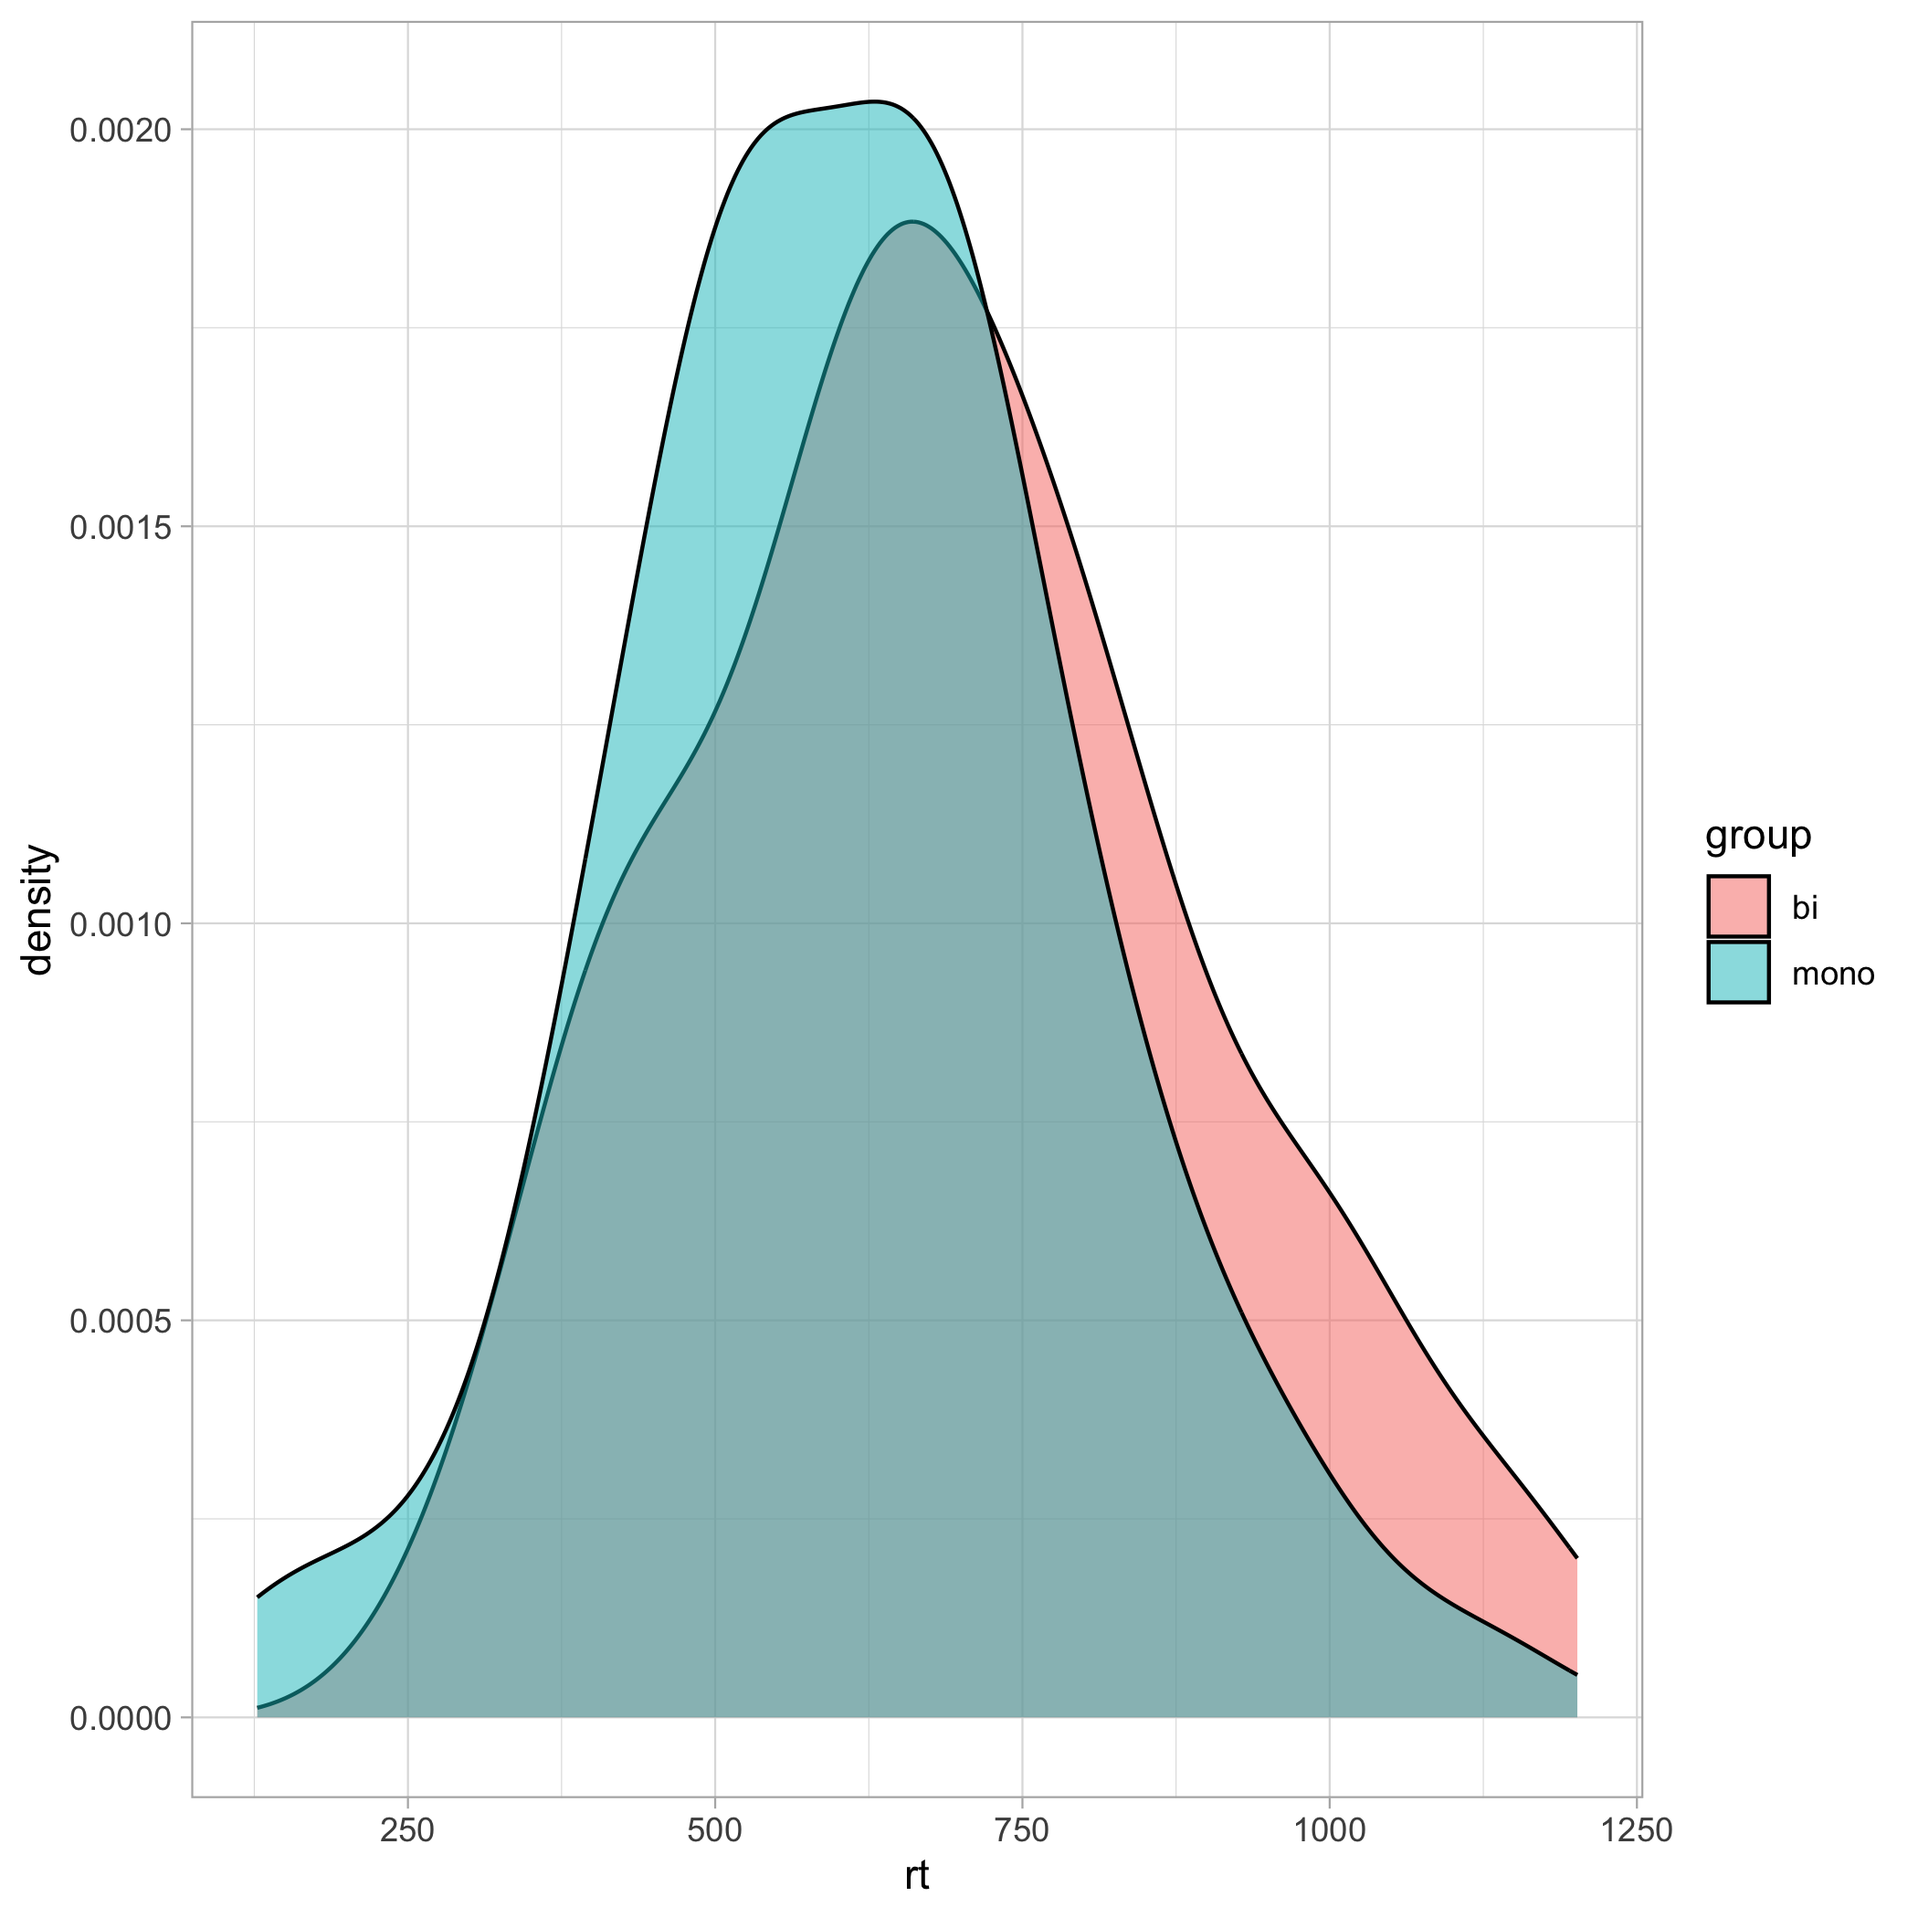
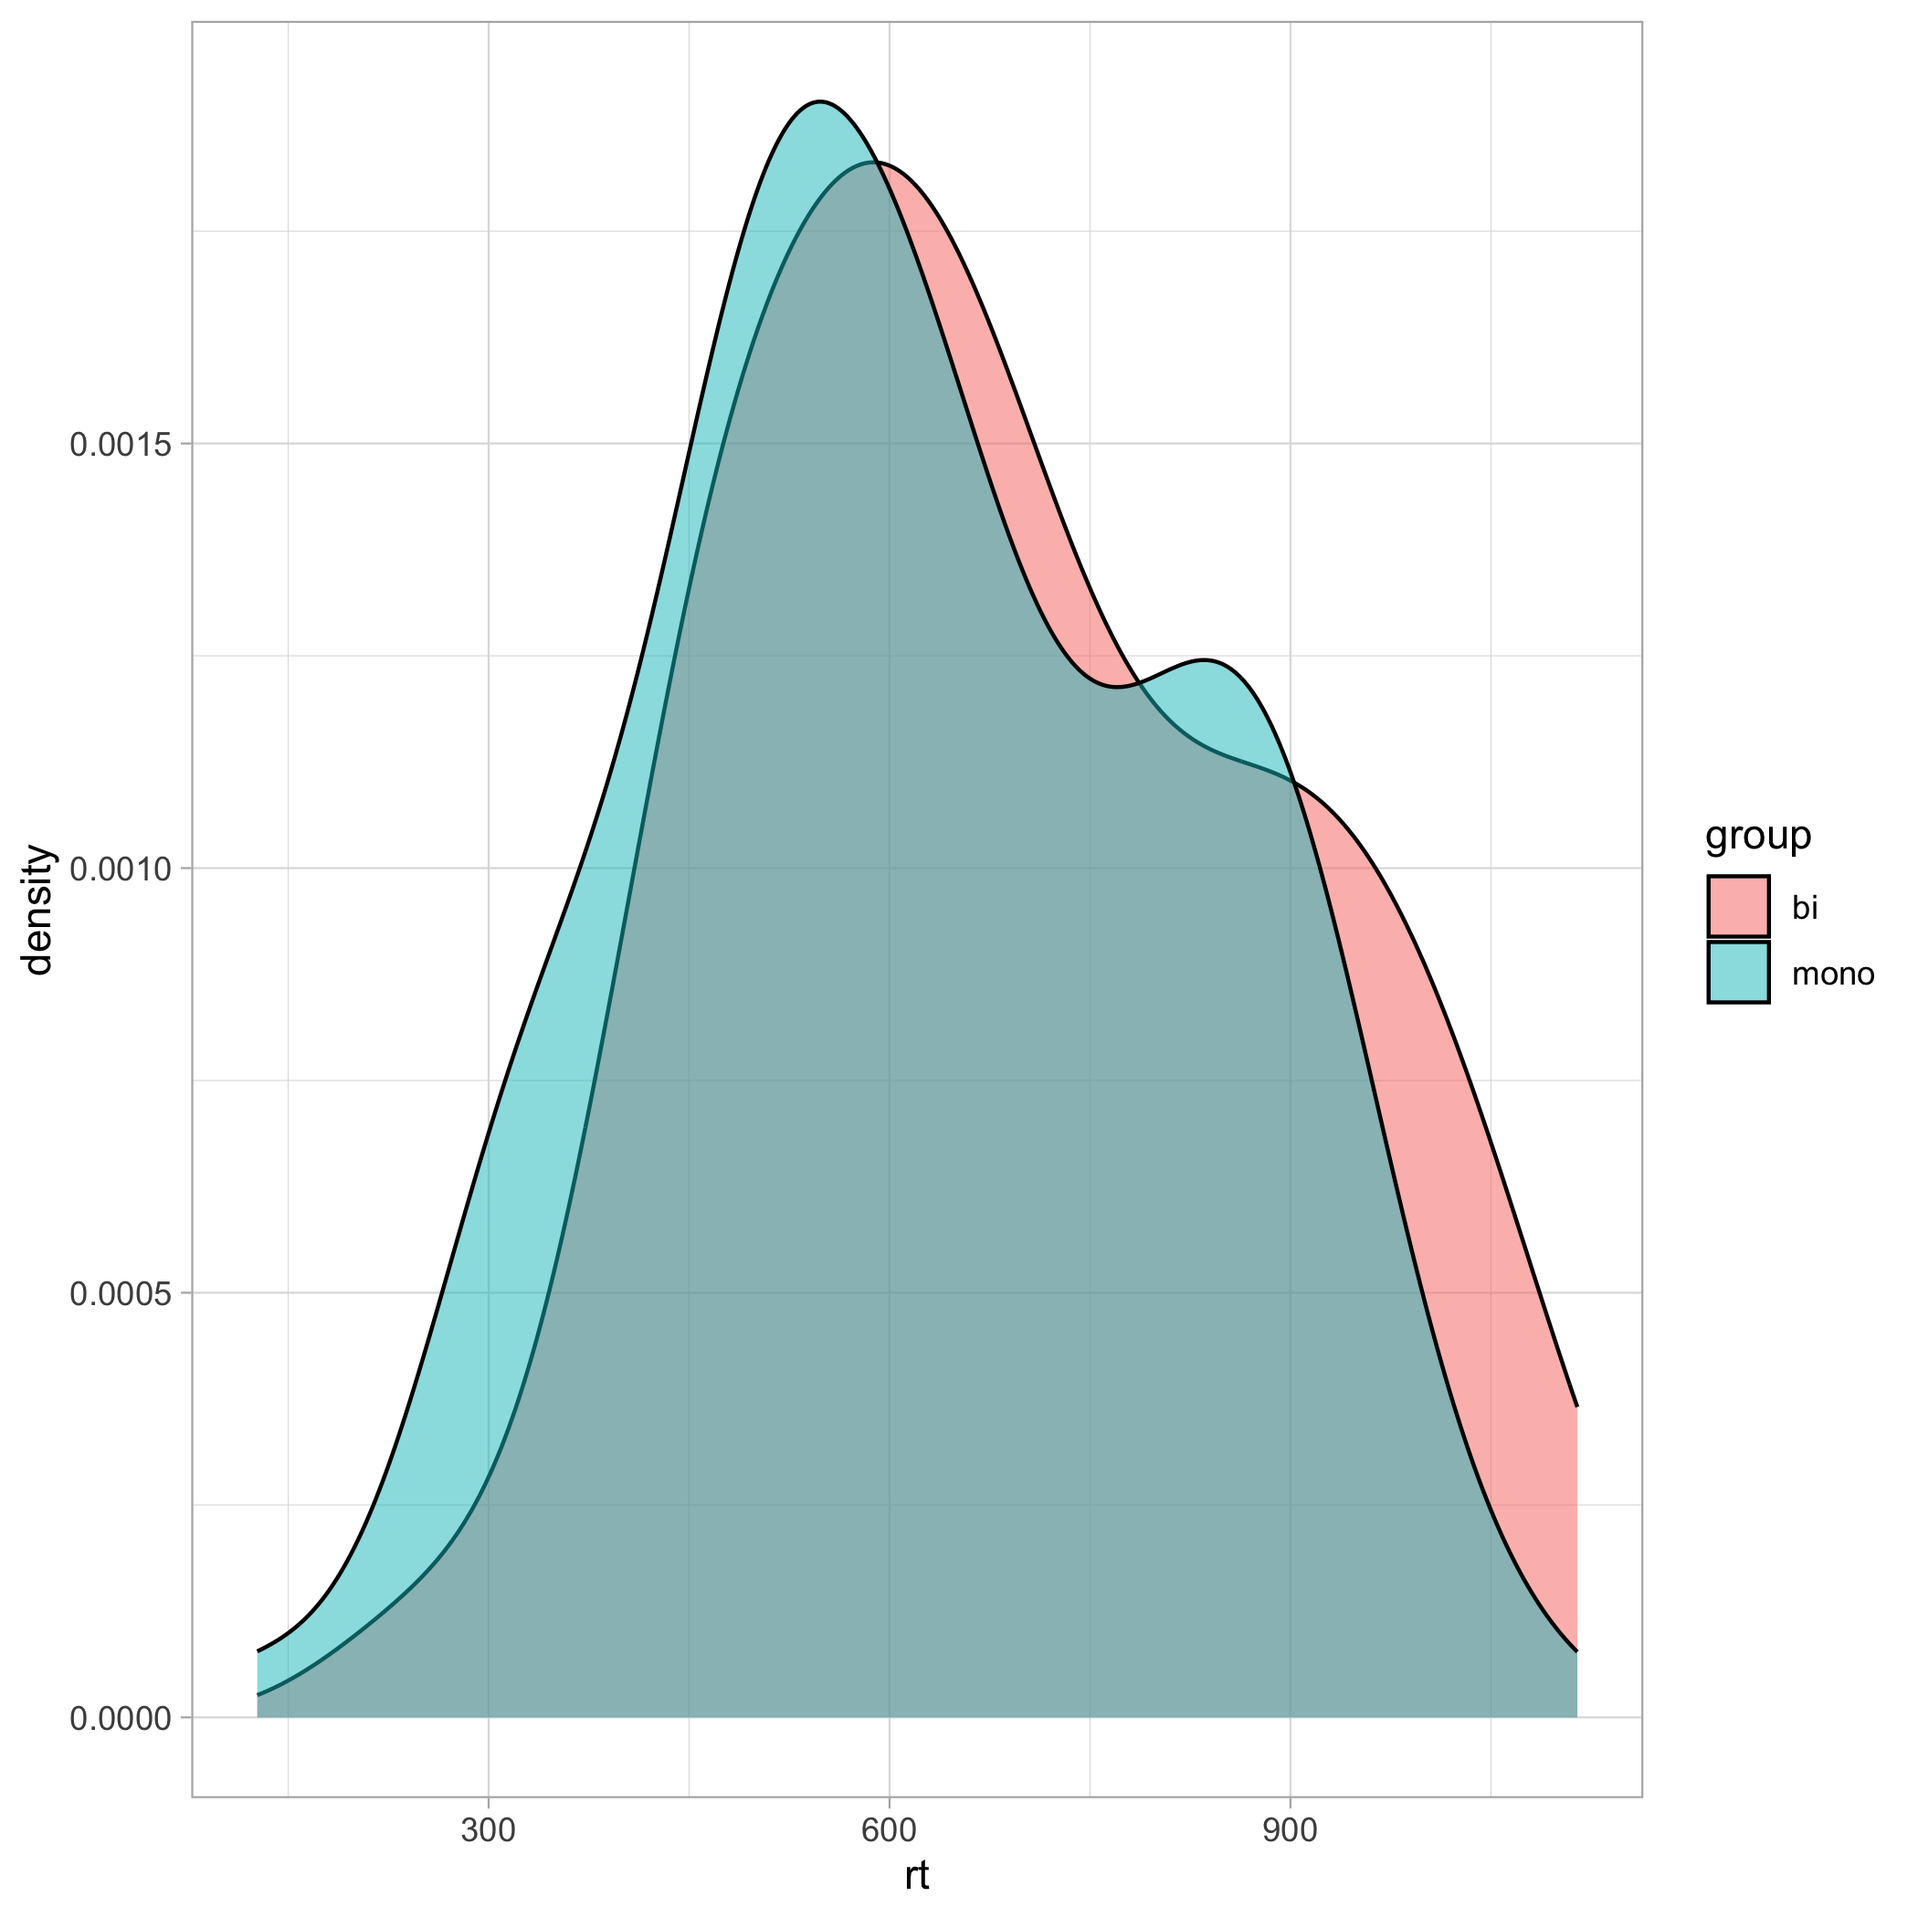
🐛 - fix week 9 lecture

diff --git a/week-09/lecture/index.html b/week-09/lecture/index.html
@@ -145,21 +145,21 @@ mono
 ```
 
 ```
-##   [1]  605.3748 1015.0935  708.4924  378.3755  869.8398  414.4900  626.8650
-##   [8]  289.7592  808.0180  670.9122  560.3056  687.6139  486.3997  586.7531
-##  [15]  514.9046  733.5884  311.3742  669.8446  693.7303  622.2163  797.1646
-##  [22]  471.5771  769.3032 1040.8338  742.0304  710.0230  590.7244  625.3332
-##  [29]  779.5922  507.6082  391.1375  379.1005  844.6960  627.4701  309.3081
-##  [36]  646.1580  317.6257  498.0965  624.8830  820.1144  681.2252  744.1545
-##  [43]  425.3267  668.5471  822.8827  785.2802  437.0735  878.5413  571.1965
-##  [50]  499.9502  548.3981  400.9633  566.3274  331.0771  734.1365  527.3520
-##  [57]  653.5073  795.1502  642.6569  757.7841  603.7529  669.9363  494.5720
-##  [64]  736.2660  507.9309  466.5864  553.2839  759.1039  686.7423  380.0771
-##  [71]  855.5871  666.6776  619.9892  690.8663  736.4289  459.7059  630.1111
-##  [78]  499.8751  469.9219  254.6945  313.2500  573.8413  530.5188  489.6916
-##  [85]  640.8833  585.1729  612.5595  893.2874  405.8401  905.5237  551.0984
-##  [92]  557.1155  456.2324  426.6149  669.0079  689.2965  615.2112  454.8202
-##  [99]  717.4094  811.4396
+##   [1]  633.4392  752.2582  622.6836  610.4020  783.9224  378.9738  979.2863
+##   [8]  891.5091  593.8808  516.6690  645.9104  912.1761  370.3845  520.3164
+##  [15]  611.6311  527.5961  451.6295  694.7455  792.2663  586.6827  774.7792
+##  [22]  419.2396  646.1119  803.3226  648.2603  314.2178  570.4713  296.9715
+##  [29]  398.2627  609.8286  509.4211  751.1529  491.1971  785.5648  697.0619
+##  [36]  499.1004  932.7318  820.9807  884.7186  820.3825  411.5537  727.6397
+##  [43]  142.3023  382.6853  880.6865  715.6209 1061.3670  487.7238  415.3841
+##  [50]  656.3461  716.4856  227.0040  855.3491  748.4832  479.5161  673.0863
+##  [57]  617.9996  544.0142  550.8123  687.1248  727.7789  847.8614  631.0109
+##  [64]  736.1269  685.9042  811.5472  787.8352  448.1374  832.4290  512.2818
+##  [71]  807.5913  608.2524  285.2201  623.3032  921.1473  586.2498  746.5308
+##  [78]  765.1335  509.0301  627.8762  584.6256  749.6515  491.6601  746.5627
+##  [85]  562.3107  507.2156  907.1254  361.0339  491.9959  730.1587  129.0729
+##  [92]  790.7218  834.4099  779.9508  960.2928  832.7353  504.3768  424.6288
+##  [99]  986.2496  936.4772
 ```
 
 ---
@@ -180,16 +180,16 @@ exp
 ## # A tibble: 200 × 2
 ##       rt group
 ##    &lt;dbl&gt; &lt;chr&gt;
-##  1  486. mono 
-##  2  603. mono 
-##  3  396. mono 
-##  4  605. mono 
-##  5  631. mono 
-##  6  270. mono 
-##  7  952. mono 
-##  8  486. mono 
-##  9  730. mono 
-## 10  407. mono 
+##  1  338. mono 
+##  2  834. mono 
+##  3  510. mono 
+##  4  735. mono 
+##  5  629. mono 
+##  6  654. mono 
+##  7  640. mono 
+##  8  733. mono 
+##  9  292. mono 
+## 10  816. mono 
 ## # … with 190 more rows
 ```
 
@@ -262,7 +262,7 @@ layout: false
 
 &lt;br/&gt;
 
-**There is a 0.0352% probability that we would find a difference that is 60 ms or more, assuming that the null hypothesis (`\(H_0: \mu_a-\mu_b = 0\)`) is true.** 
+**There is a 3.5% probability that we would find a difference that is 60 ms or more, assuming that the null hypothesis (`\(H_0: \mu_a-\mu_b = 0\)`) is true.** 
 
 --
 
